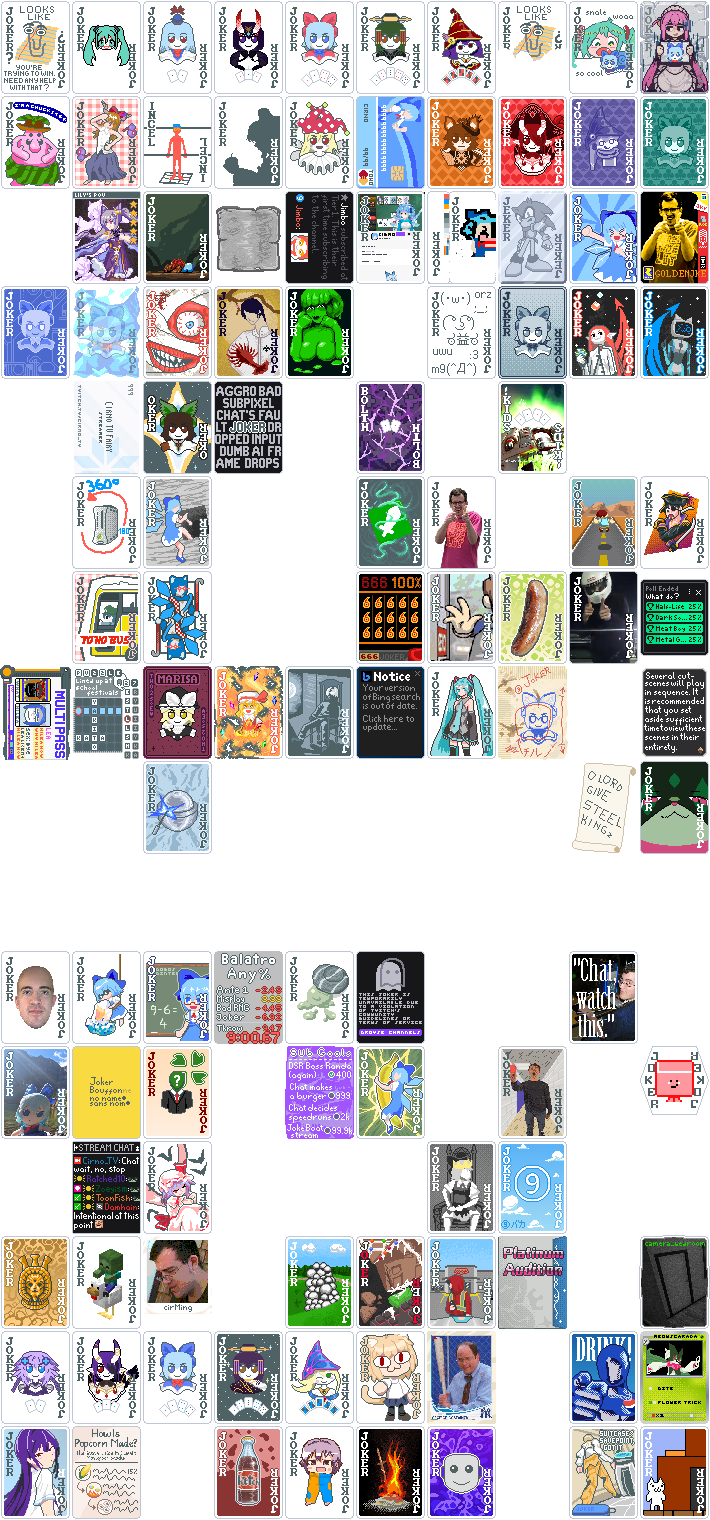
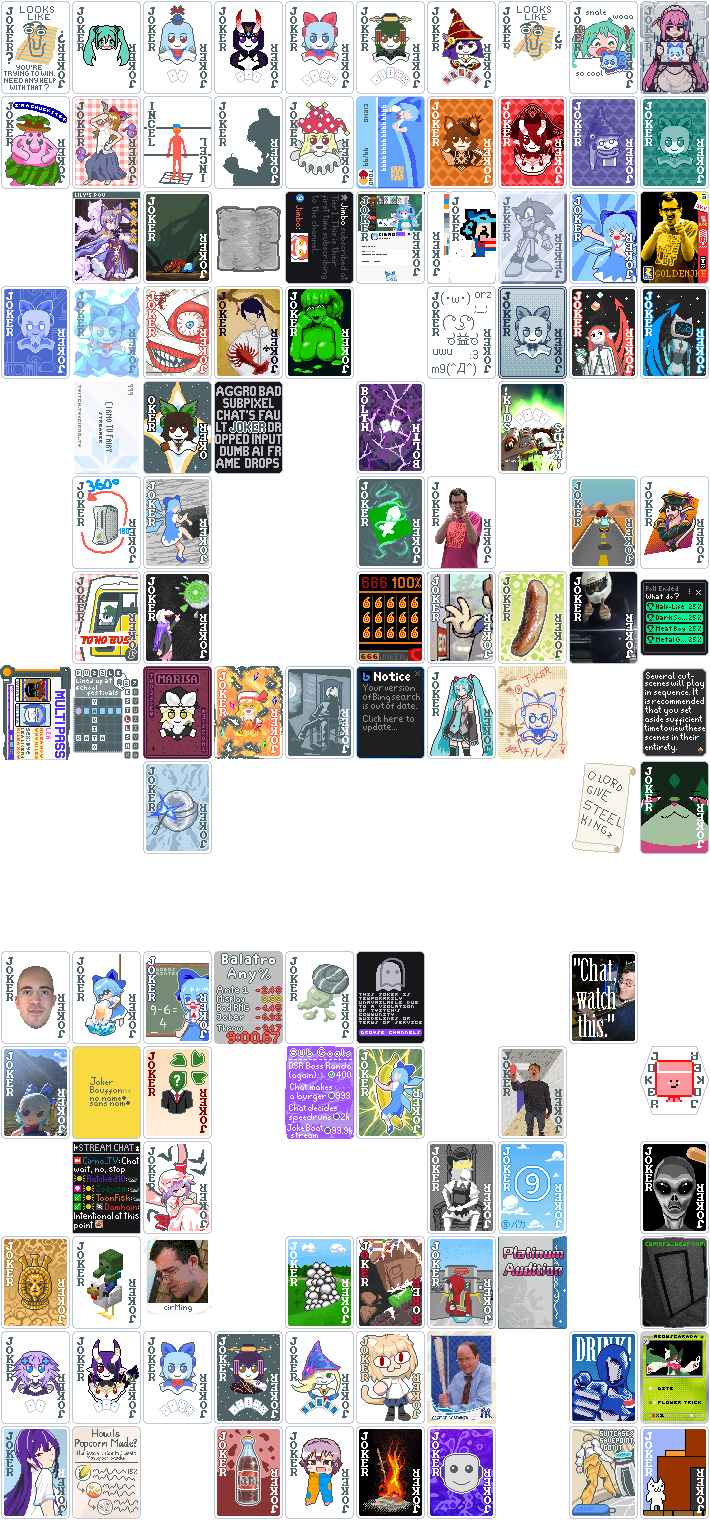
Added reskins for Obelisk & Hologram
Additionally changed Shoot The Moon reskin.

Changed region(s): [[0.8986, 0.7421, 1.0, 0.8349], [0.1859, 0.3711, 0.3099, 0.4329]]

diff --git a/README.md b/README.md
@@ -17,7 +17,7 @@ DaemonTsun's art contributions are public domain - Some memes or pictures are no
 
 **Cirno_TV & Friends** currently:
 - Retextures:
-  - 117 Jokers (Some get filtered/altered by the Mature Reference setting depending on what it is set to.)
+  - 119 Jokers (Some get filtered/altered by the Mature Reference setting depending on what it is set to.)
   - All Blind Chips
   - All Seals
   - All Planet Cards
